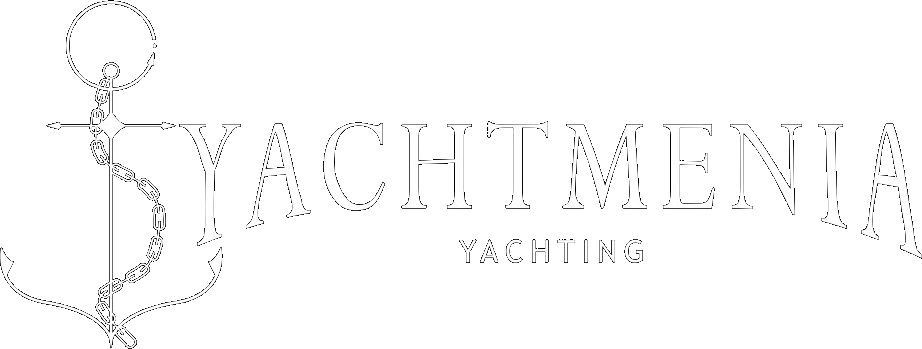
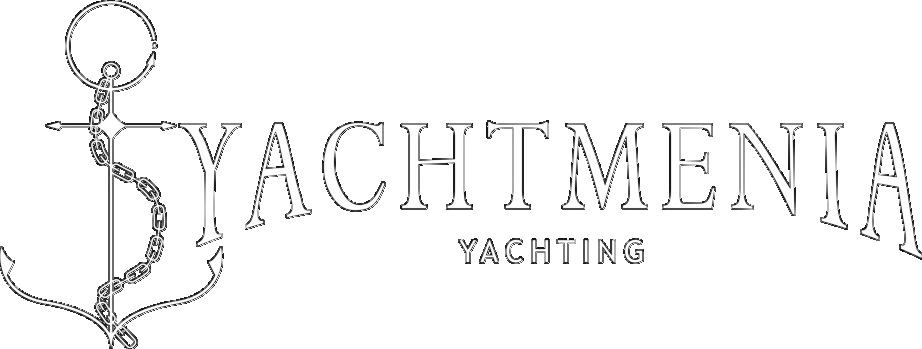
fix: smoother anchor lines — remove sharpen, thicken alpha, integer px heights
Drop sharpen and GPU scaling hacks that caused jagged anchor strokes; dilate alpha 1px and use integer display heights for clean downscaling.

diff --git a/src/utils/logos.ts b/src/utils/logos.ts
@@ -1,27 +1,22 @@
 /**
- * Yatay lockup (çapa + YACHTMENIA) — Vite asset import.
- * Navbar’da @3x kaynak kullanılır (her ekranda net çapa).
+ * Yatay lockup — @2x kaynak (lanczos küçültme, sharpen yok).
  */
-import lockupDark from '@/assets/brand/lockup-dark@3x.png'
-import lockupLight from '@/assets/brand/lockup-light@3x.png'
+import lockupDark from '@/assets/brand/lockup-dark@2x.png'
+import lockupLight from '@/assets/brand/lockup-light@2x.png'
 import { publicAsset } from '@/utils/publicAsset'
 
 const inLogos = (name: string) => publicAsset(`media/logos/${name}`)
 
-/** Görüntüleme oranı (~918×340) */
 export const BRAND_LOCKUP_ASPECT = 918 / 340
 
-/** Yüksek çözünürlük — CSS ile küçültülür, çapa net kalır */
 export const BRAND_LOGO = {
   navbarOnLight: lockupLight,
   navbarOnDark: lockupDark,
   footer: lockupDark,
 } as const
 
-/** JSON-LD / harici — sabit public URL (1x) */
 export const BRAND_LOGO_PUBLIC_URL = inLogos('lockup-light.png')
 
-/** Eski public klasör referansları */
 export const LOGOS = {
   refit: {
     verticalLight: inLogos('refit-vertical-light.png'),

diff --git a/src/components/common/BrandLogo.tsx b/src/components/common/BrandLogo.tsx
@@ -33,10 +33,11 @@ export function BrandLogo({ variant, headerTone = 'on-light', priority = false }
 
   const src = onDark ? BRAND_LOGO.navbarOnDark : BRAND_LOGO.navbarOnLight
 
+  /** Tam piksel yükseklik — kesirli rem subpixel tırtıklığı önlenir */
   const lockupHeights =
     variant === 'navbar'
-      ? 'h-[3.15rem] min-h-[50px] sm:h-[3.65rem] md:h-[4rem] lg:h-[4.35rem]'
-      : 'h-[3.5rem] sm:h-[4.15rem]'
+      ? 'h-[56px] sm:h-[64px] md:h-[68px] lg:h-[72px]'
+      : 'h-[56px] sm:h-[64px]'
 
   const lockupMaxW =
     variant === 'navbar' ? 'max-w-[min(580px,96vw)]' : 'max-w-[min(460px,92vw)]'

diff --git a/src/components/common/PageLoader.tsx b/src/components/common/PageLoader.tsx
@@ -22,7 +22,7 @@ export function PageLoader() {
         width={918}
         height={340}
         decoding="sync"
-        className="brand-lockup block h-44 w-auto max-w-[min(440px,88vw)] object-contain sm:h-48 md:h-52"
+        className="brand-lockup block h-[176px] w-auto max-w-[min(440px,88vw)] object-contain sm:h-[192px] md:h-[208px]"
         aria-hidden
       />
       <div className="flex w-full max-w-[240px] flex-col items-center gap-3" aria-hidden>

diff --git a/src/styles/globals.css b/src/styles/globals.css
@@ -172,10 +172,8 @@ html {
     }
   }
 
-  /* Yüksek çözünürlüklü lockup küçültülürken çizgiler yumuşamasın */
+  /* Logo: GPU katmanı / crisp-edges ince çizgide kesik görünüm yapar */
   .brand-lockup {
-    -webkit-backface-visibility: hidden;
-    backface-visibility: hidden;
-    transform: translateZ(0);
+    image-rendering: auto;
   }
 }
